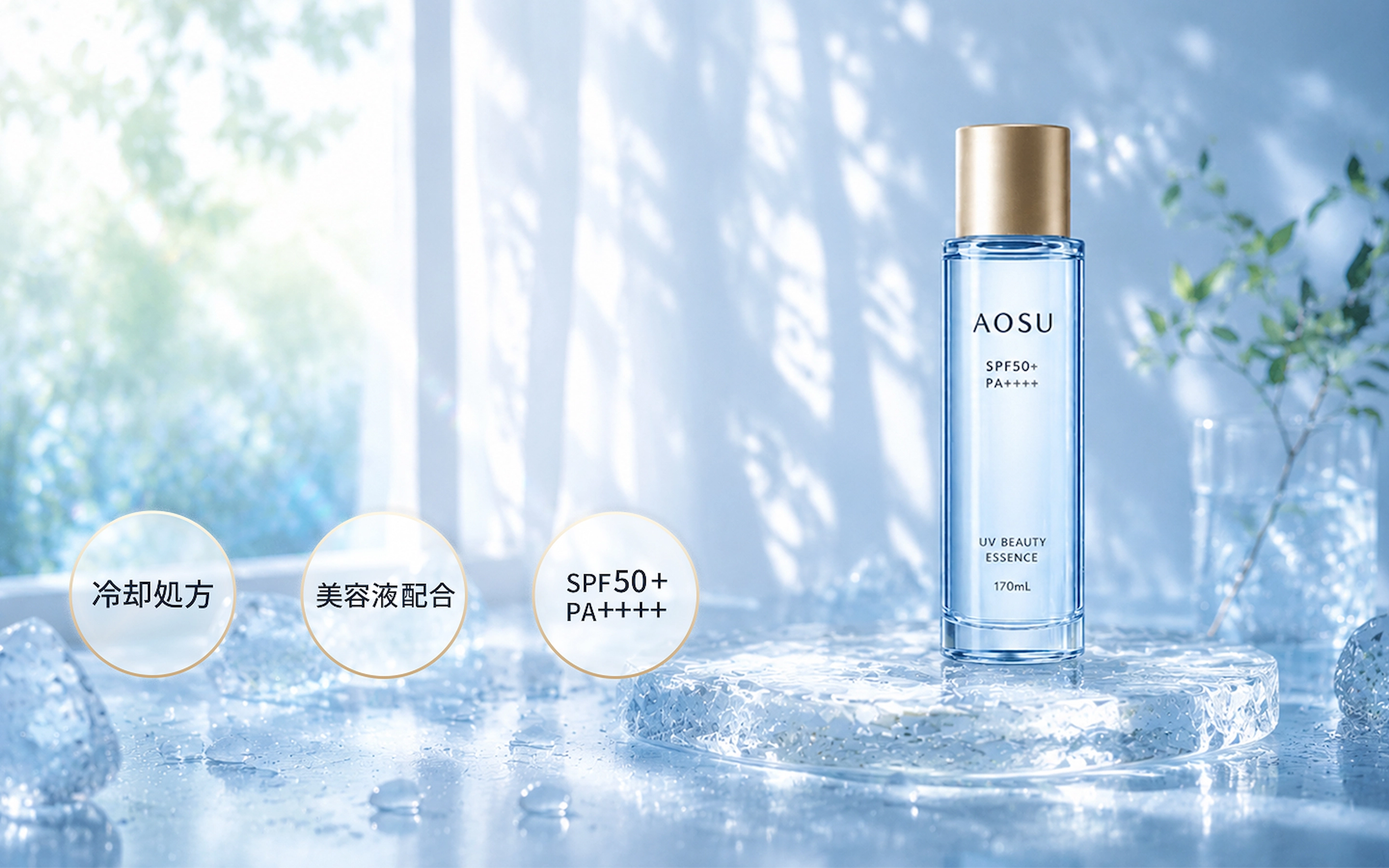
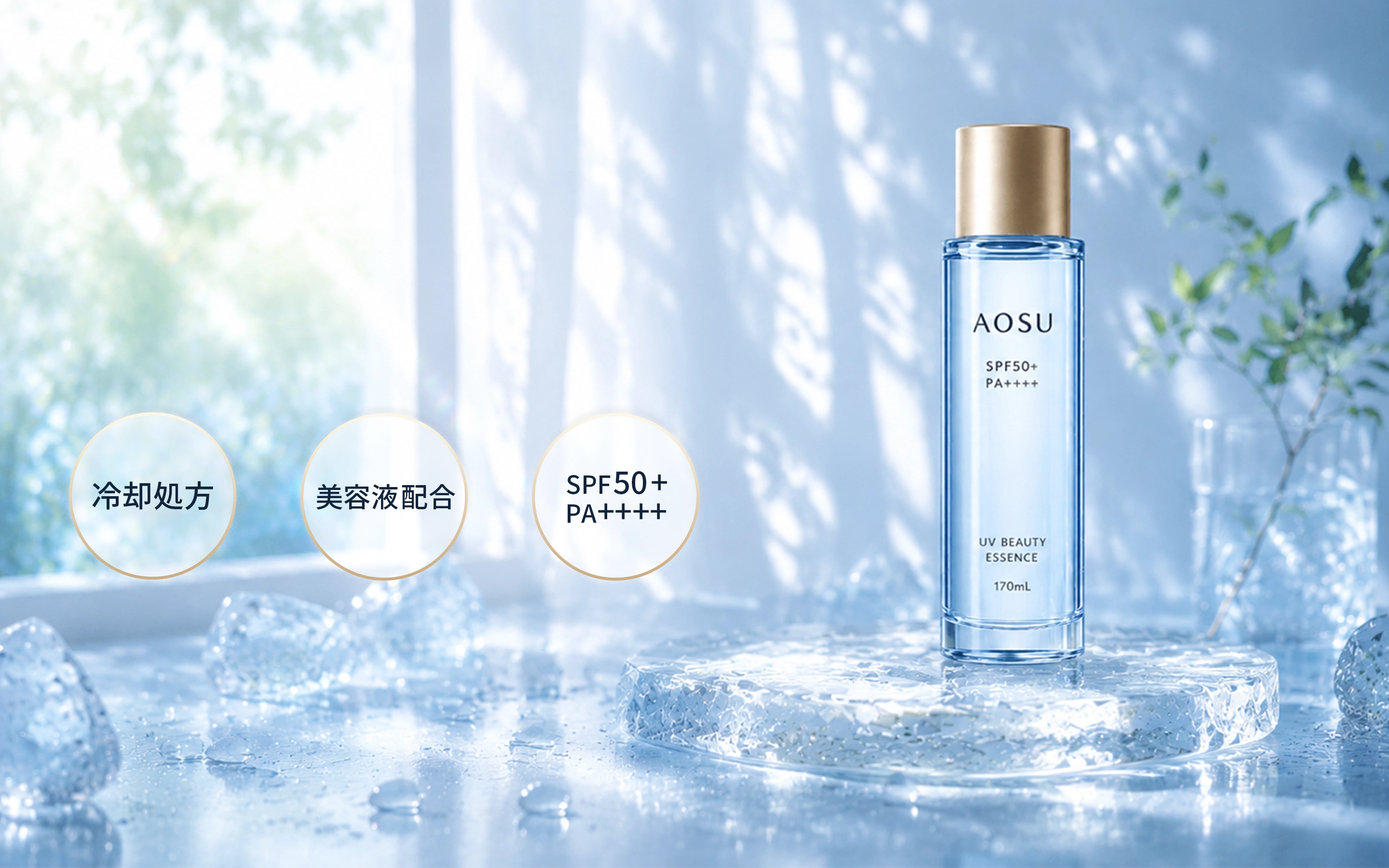
ファーストビューの位置調整完了

Changed region(s): [[0.0312, 0.4667, 0.1875, 0.7778], [0.2188, 0.4667, 0.3438, 0.7778], [0.375, 0.4978, 0.5312, 0.7778]]

diff --git a/css/style.css b/css/style.css
@@ -157,7 +157,7 @@ body {
 
 @media (min-width: 768px) {
   .l-header {
-    padding: 40px 4.8%;
+    padding: 48px 4.8%;
   }
   .l-header__logo {
     font-size: 32px;
@@ -454,8 +454,24 @@ body {
 }
 
 @media (min-width: 768px) {
+  /* PCは高さ816px（1440px幅のとき）。画像は上を基準にして下をトリミング */
+  .p-fv {
+    aspect-ratio: 1440 / 816;
+  }
+
+  .p-fv__bg,
+  .p-fv__bg img {
+    display: block;
+    height: 100%;
+  }
+
+  .p-fv__bg img {
+    object-fit: cover;
+    object-position: center top;
+  }
+
   .p-fv__text {
-    top: 28.4%;                  /* PC：上からの位置 */
+    top: 17.2%;                  /* PC：上からの位置 */
     left: 4.8%;                  /* PC：左からの位置 */
     right: auto;
   }
@@ -463,21 +479,23 @@ body {
   /* 画面幅に合わせて縮む（最大40px） */
   .p-fv__catch {
     font-size: clamp(26px, 2.78vw, var(--fz-fv-catch));
+    letter-spacing: 0.04em;      /* SPは1行に収めるため0、PCだけ少し空ける */
   }
 
+  /* 画面幅に合わせて縮む（最大32px / 22px） */
   .p-fv__sub {
     margin-top: clamp(16px, 1.7vw, 24px);
-    font-size: clamp(16px, 1.53vw, 22px);
+    font-size: clamp(16px, 2.22vw, 32px);
   }
 
   .p-fv__lead {
     margin-top: 0;
     letter-spacing: 0.08em;
-    font-size: clamp(12px, 1.04vw, 15px);
+    font-size: clamp(12px, 1.53vw, 22px);
   }
 
   .p-fv__cta {
-    bottom: 7.5%;                /* PC：下からの位置 */
+    bottom: 8.8%;                /* PC：下からの位置（1440px幅で下端から72px。バッジとの間は80px） */
     left: 4.8%;                  /* キャッチと左端を揃える */
     transform: none;
     width: auto;
